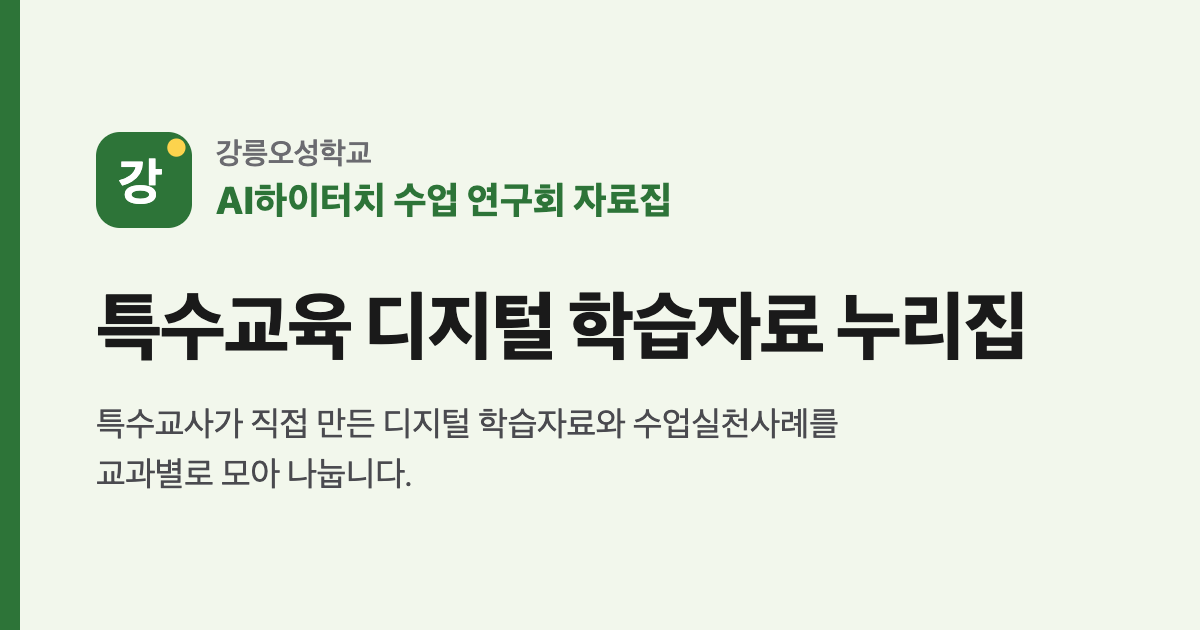
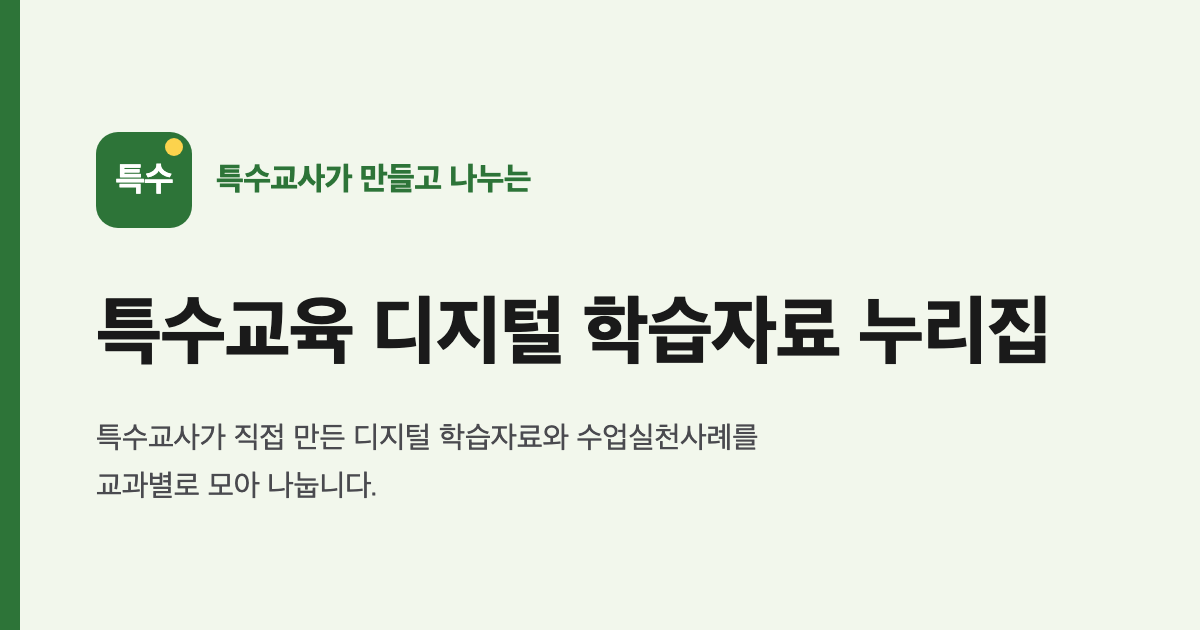
feat: 헤더 윗줄·링크 미리보기·로고에서 특정 단체 표기 빼기
- 헤더 윗줄: 강릉오성학교 → 특수교사가 만들고 나누는
- meta description: 운영 연구회 문장 삭제
- 로고 글자 강릉 → 특수(작은 아이콘은 특), favicon·ico·애플 터치 아이콘·og.png 다시 생성

diff --git a/src/config/logo.tsx b/src/config/logo.tsx
@@ -1,11 +1,11 @@
 import type { SVGProps } from "react"
 
 /**
- * 누리집 로고 — 글자 로고 "강릉": 초록 바탕 + 흰 글자 + 오른쪽 위 노란 점.
+ * 누리집 로고 — 글자 로고 "특수": 초록 바탕 + 흰 글자 + 오른쪽 위 노란 점.
  * 로고를 바꿀 때는 이 파일만 고친다(CLAUDE.md 절대규칙 3).
  * 색은 토큰(--primary / --primary-foreground / --cta)만 쓴다. 글꼴은 누리집 본문 글꼴(--font-main).
  * 브라우저 탭 아이콘은 public/favicon.svg — CSS 변수를 못 쓰는 정적 파일이라
- * 같은 모양을 토큰 값(hex)으로 따로 두고, 16px 에서는 "강" 한 글자만 쓴다. 모양·색을 바꾸면 그 파일도 함께 바꾼다.
+ * 같은 모양을 토큰 값(hex)으로 따로 두고, 16px 에서는 "특" 한 글자만 쓴다. 모양·색을 바꾸면 그 파일도 함께 바꾼다.
  * SVG 를 못 쓰는 곳용으로 public/favicon.ico(16·32·48) · apple-touch-icon.png(180, 아이폰 홈 화면)도 같은 모양 — 함께 다시 만든다.
  */
 export function SiteLogo(props: SVGProps<SVGSVGElement>) {
@@ -22,7 +22,7 @@ export function SiteLogo(props: SVGProps<SVGSVGElement>) {
         fill="var(--primary-foreground)"
         style={{ fontFamily: "var(--font-main)" }}
       >
-        강릉
+        특수
       </text>
       <circle cx="31" cy="10" r="3" fill="var(--cta)" />
     </svg>

diff --git a/index.html b/index.html
@@ -8,7 +8,7 @@
     <meta name="viewport" content="width=device-width, initial-scale=1.0" />
     <title>특수교육 디지털 학습자료 누리집</title>
     <!-- 링크 미리보기(카카오톡·밴드 등). 이름·설명은 src/config/site.ts 와 같은 값으로 맞춰 둔다. -->
-    <meta name="description" content="특수교사가 직접 만든 디지털 학습자료(웹앱)와 수업실천사례를 교과별로 모아 나누는 누리집입니다. 강릉오성학교 AI하이터치 수업 연구회가 운영합니다." />
+    <meta name="description" content="특수교사가 직접 만든 디지털 학습자료(웹앱)와 수업실천사례를 교과별로 모아 나누는 누리집입니다." />
     <link rel="canonical" href="https://special-edu-hub.vercel.app/" />
     <meta property="og:type" content="website" />
     <meta property="og:site_name" content="특수교육 디지털 학습자료 누리집" />

diff --git a/src/config/site.ts b/src/config/site.ts
@@ -36,7 +36,7 @@ export const site = {
    * title 을 비워 두면 name 을 쓴다. 헤더에서만 쓰는 표기 — SITE_NAME 은 그대로.
    */
   headerBrand: {
-    eyebrow: "강릉오성학교",
+    eyebrow: "특수교사가 만들고 나누는",
     title: "",
   },
 
